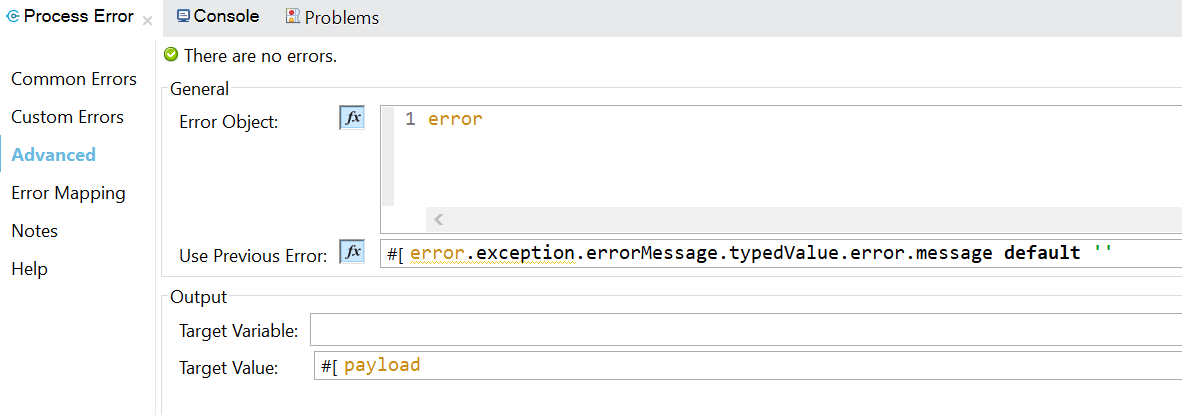
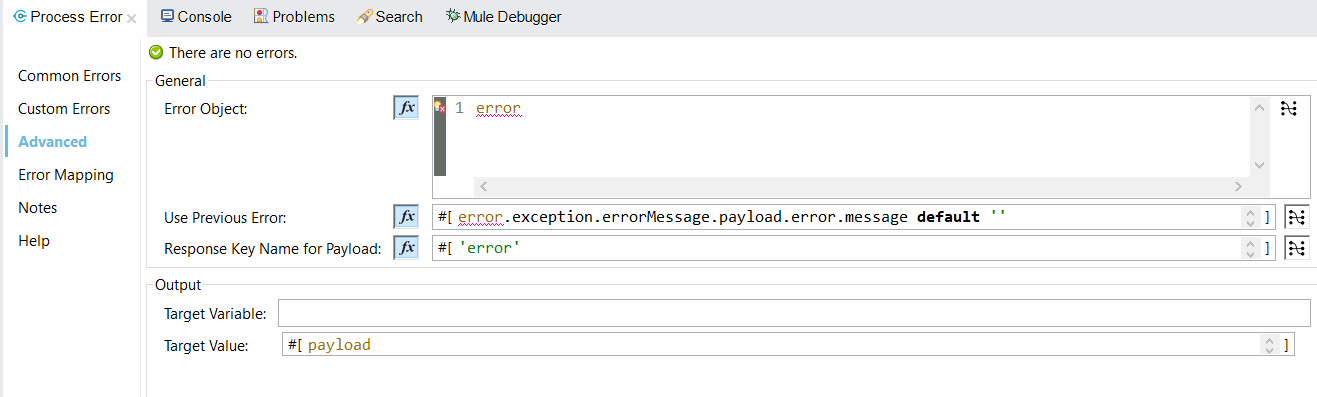
Added feature to customize the error response field name

diff --git a/README.md b/README.md
@@ -12,7 +12,7 @@ The error is converted by this module into the items below.
   - **Error reason**:  *Reason phrase* from the [HTTP RFC 7231 Response Status Codes][http-rfc-7231-6] for [Client Error 4xx][http-rfc-7231-6.5] and [Server Error 5xx][http-rfc-7231-6.6].
   - **Error message**: This can be any text description, array, or object.  It is usually the Mule `error.description` or developer-defined dataweave or text.
 
-A JSON body response example is shown below.
+A JSON body response example is shown below.  Note that the top-level field name, `error`, is customizable.
 
 **StatusCode: 400**
 
@@ -332,7 +332,41 @@ The dataweave should resolve to a string but any type is allowed.  The default v
 error.exception.errorMessage.payload.error.message default ''
 ```
 
-**Note: Leave this field empty if you do not want to propagate previous errors.**
+**Set this field to an empty string if you do not want to propagate previous errors.**
+
+### Response Key Name for Payload
+This field allows you to customize the JSON key name where the error payload is set.  This defaults to `error`, which is shown in the examples.  This only supports changing the name of the top-level key; it does not change any other format.  If you want the error payload to be the top-level element in the response, then set this field to empty string.
+
+**Default Response**: error
+```
+{
+  "error": {
+      "code": 400,
+      "reason": "Bad Request",
+      "message": "Error validating response"
+  }
+}
+```
+
+**Custom Response**: errorDetails
+```
+{
+  "errorDetails": {
+      "code": 400,
+      "reason": "Bad Request",
+      "message": "Error validating response"
+  }
+}
+```
+
+**Custom Response**: empty string
+```
+{
+	"code": 400,
+	"reason": "Bad Request",
+	"message": "Error validating response"
+}
+```
 
 ## Error Handling Tips
 
